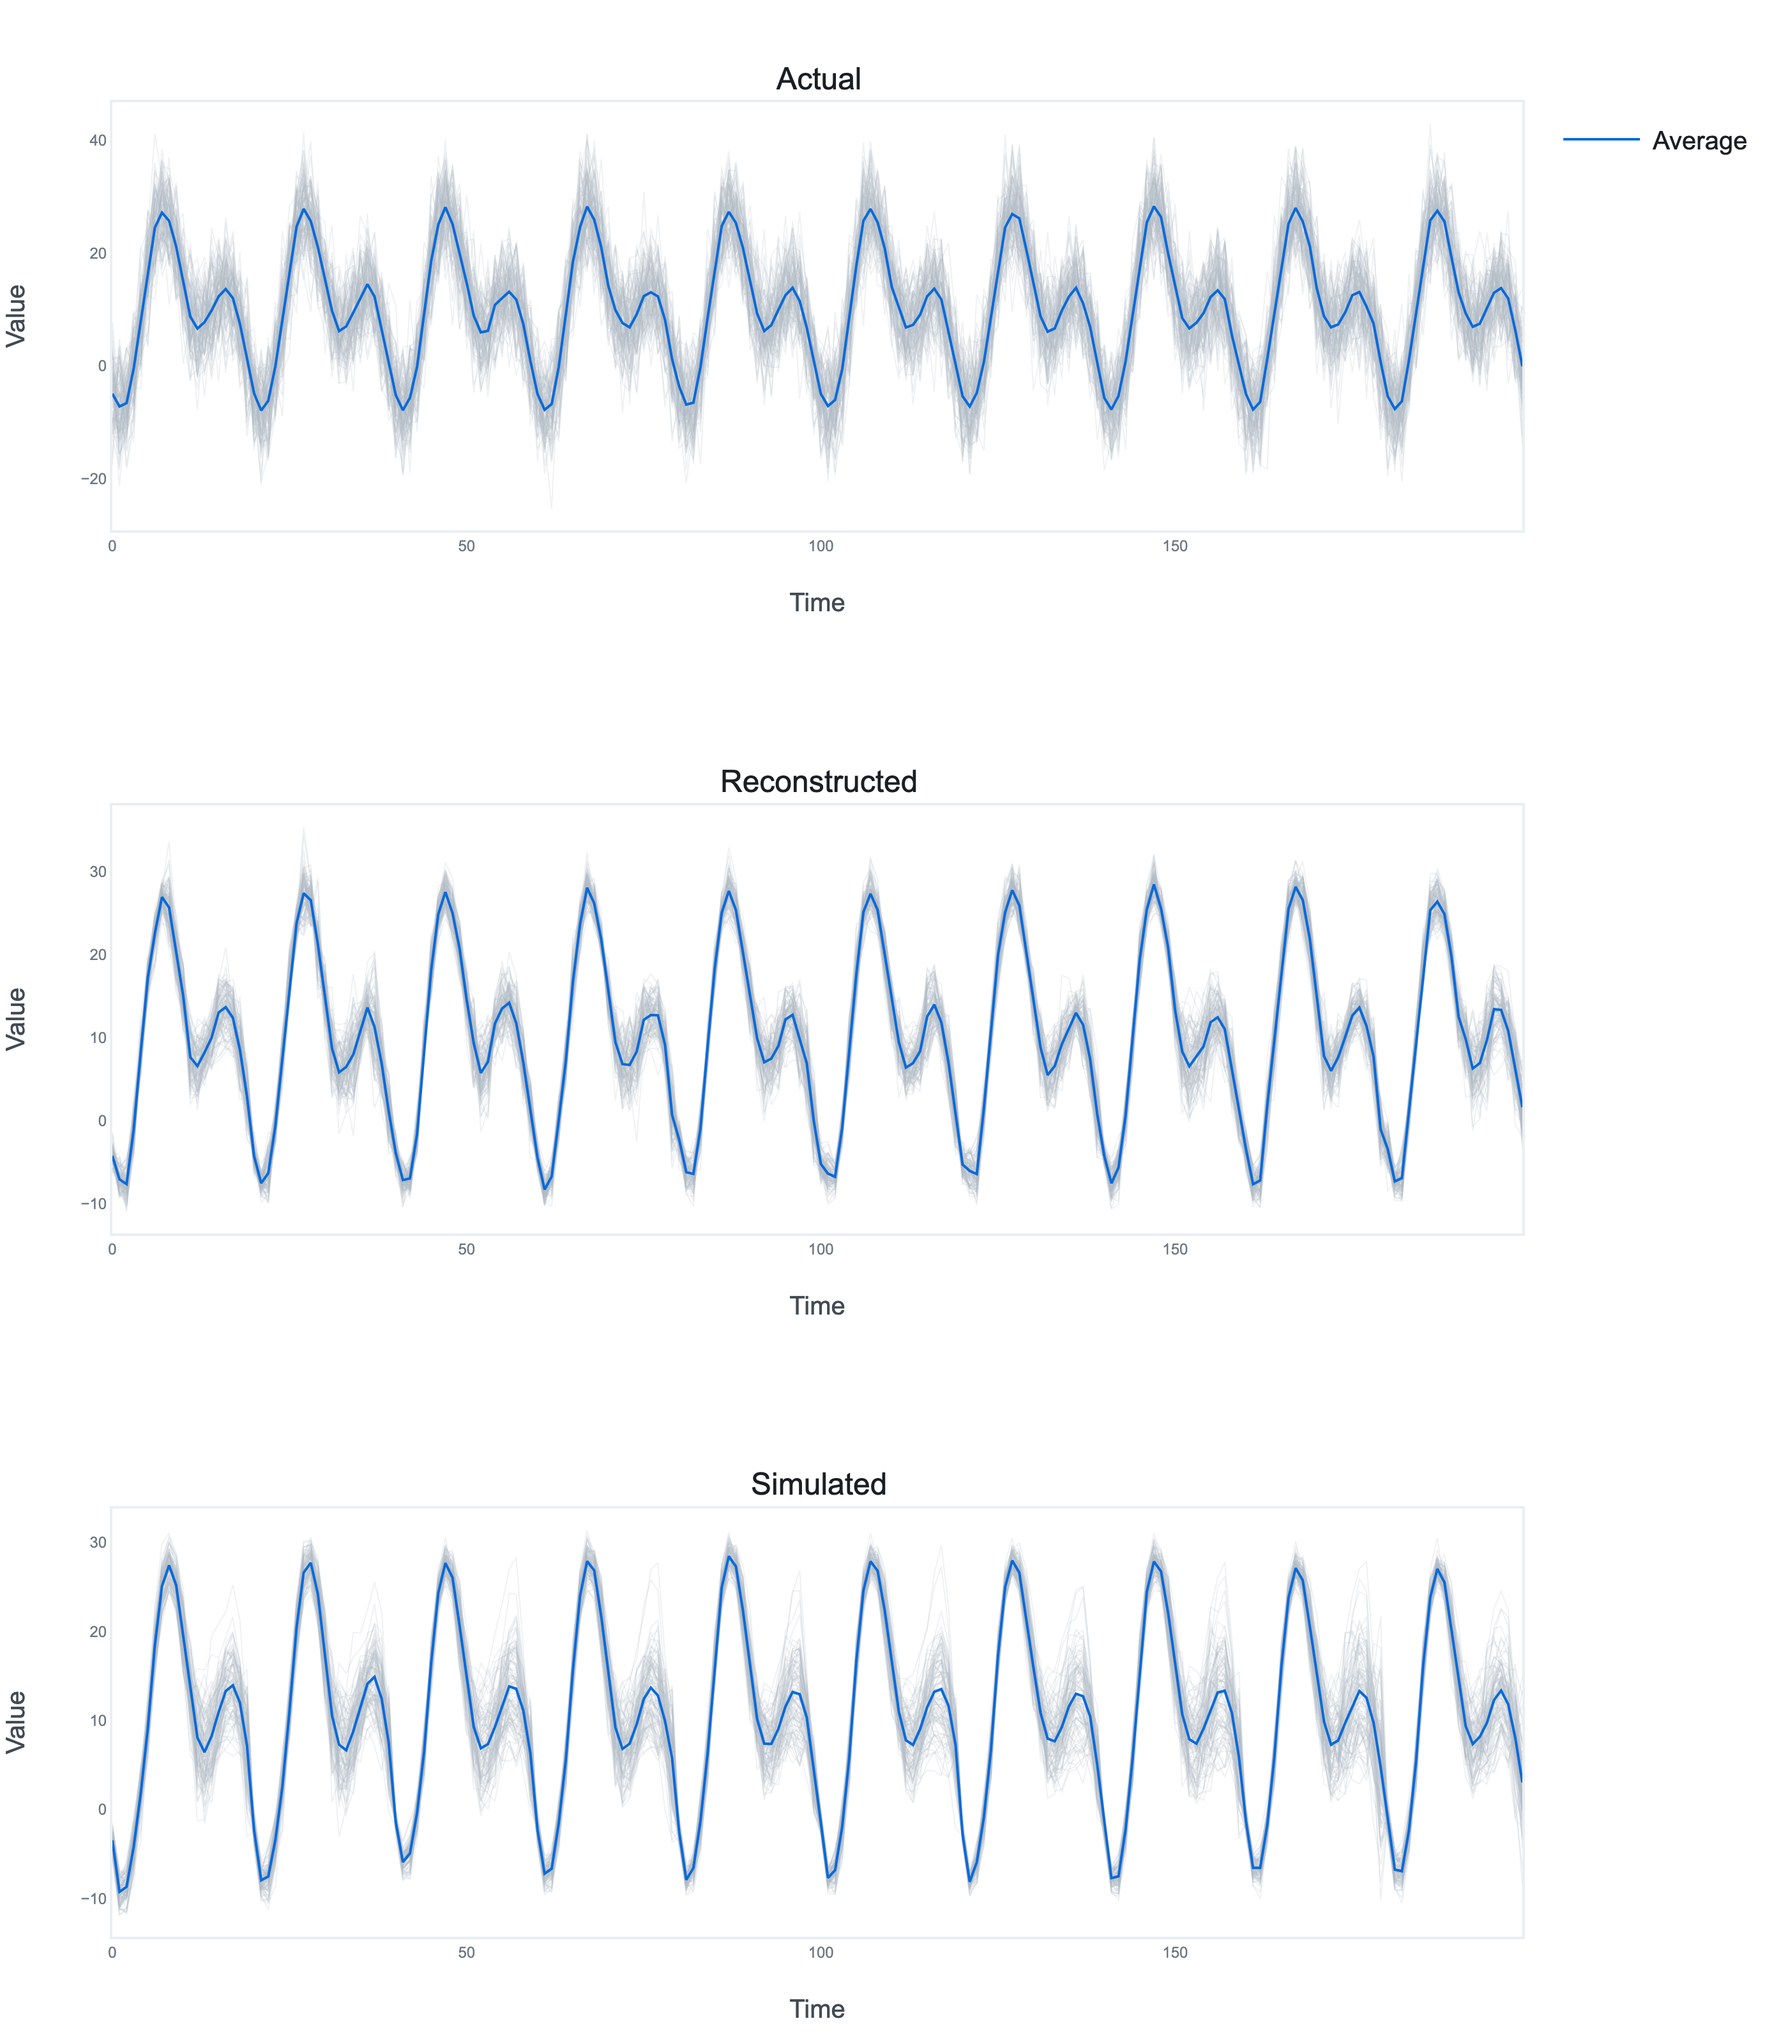
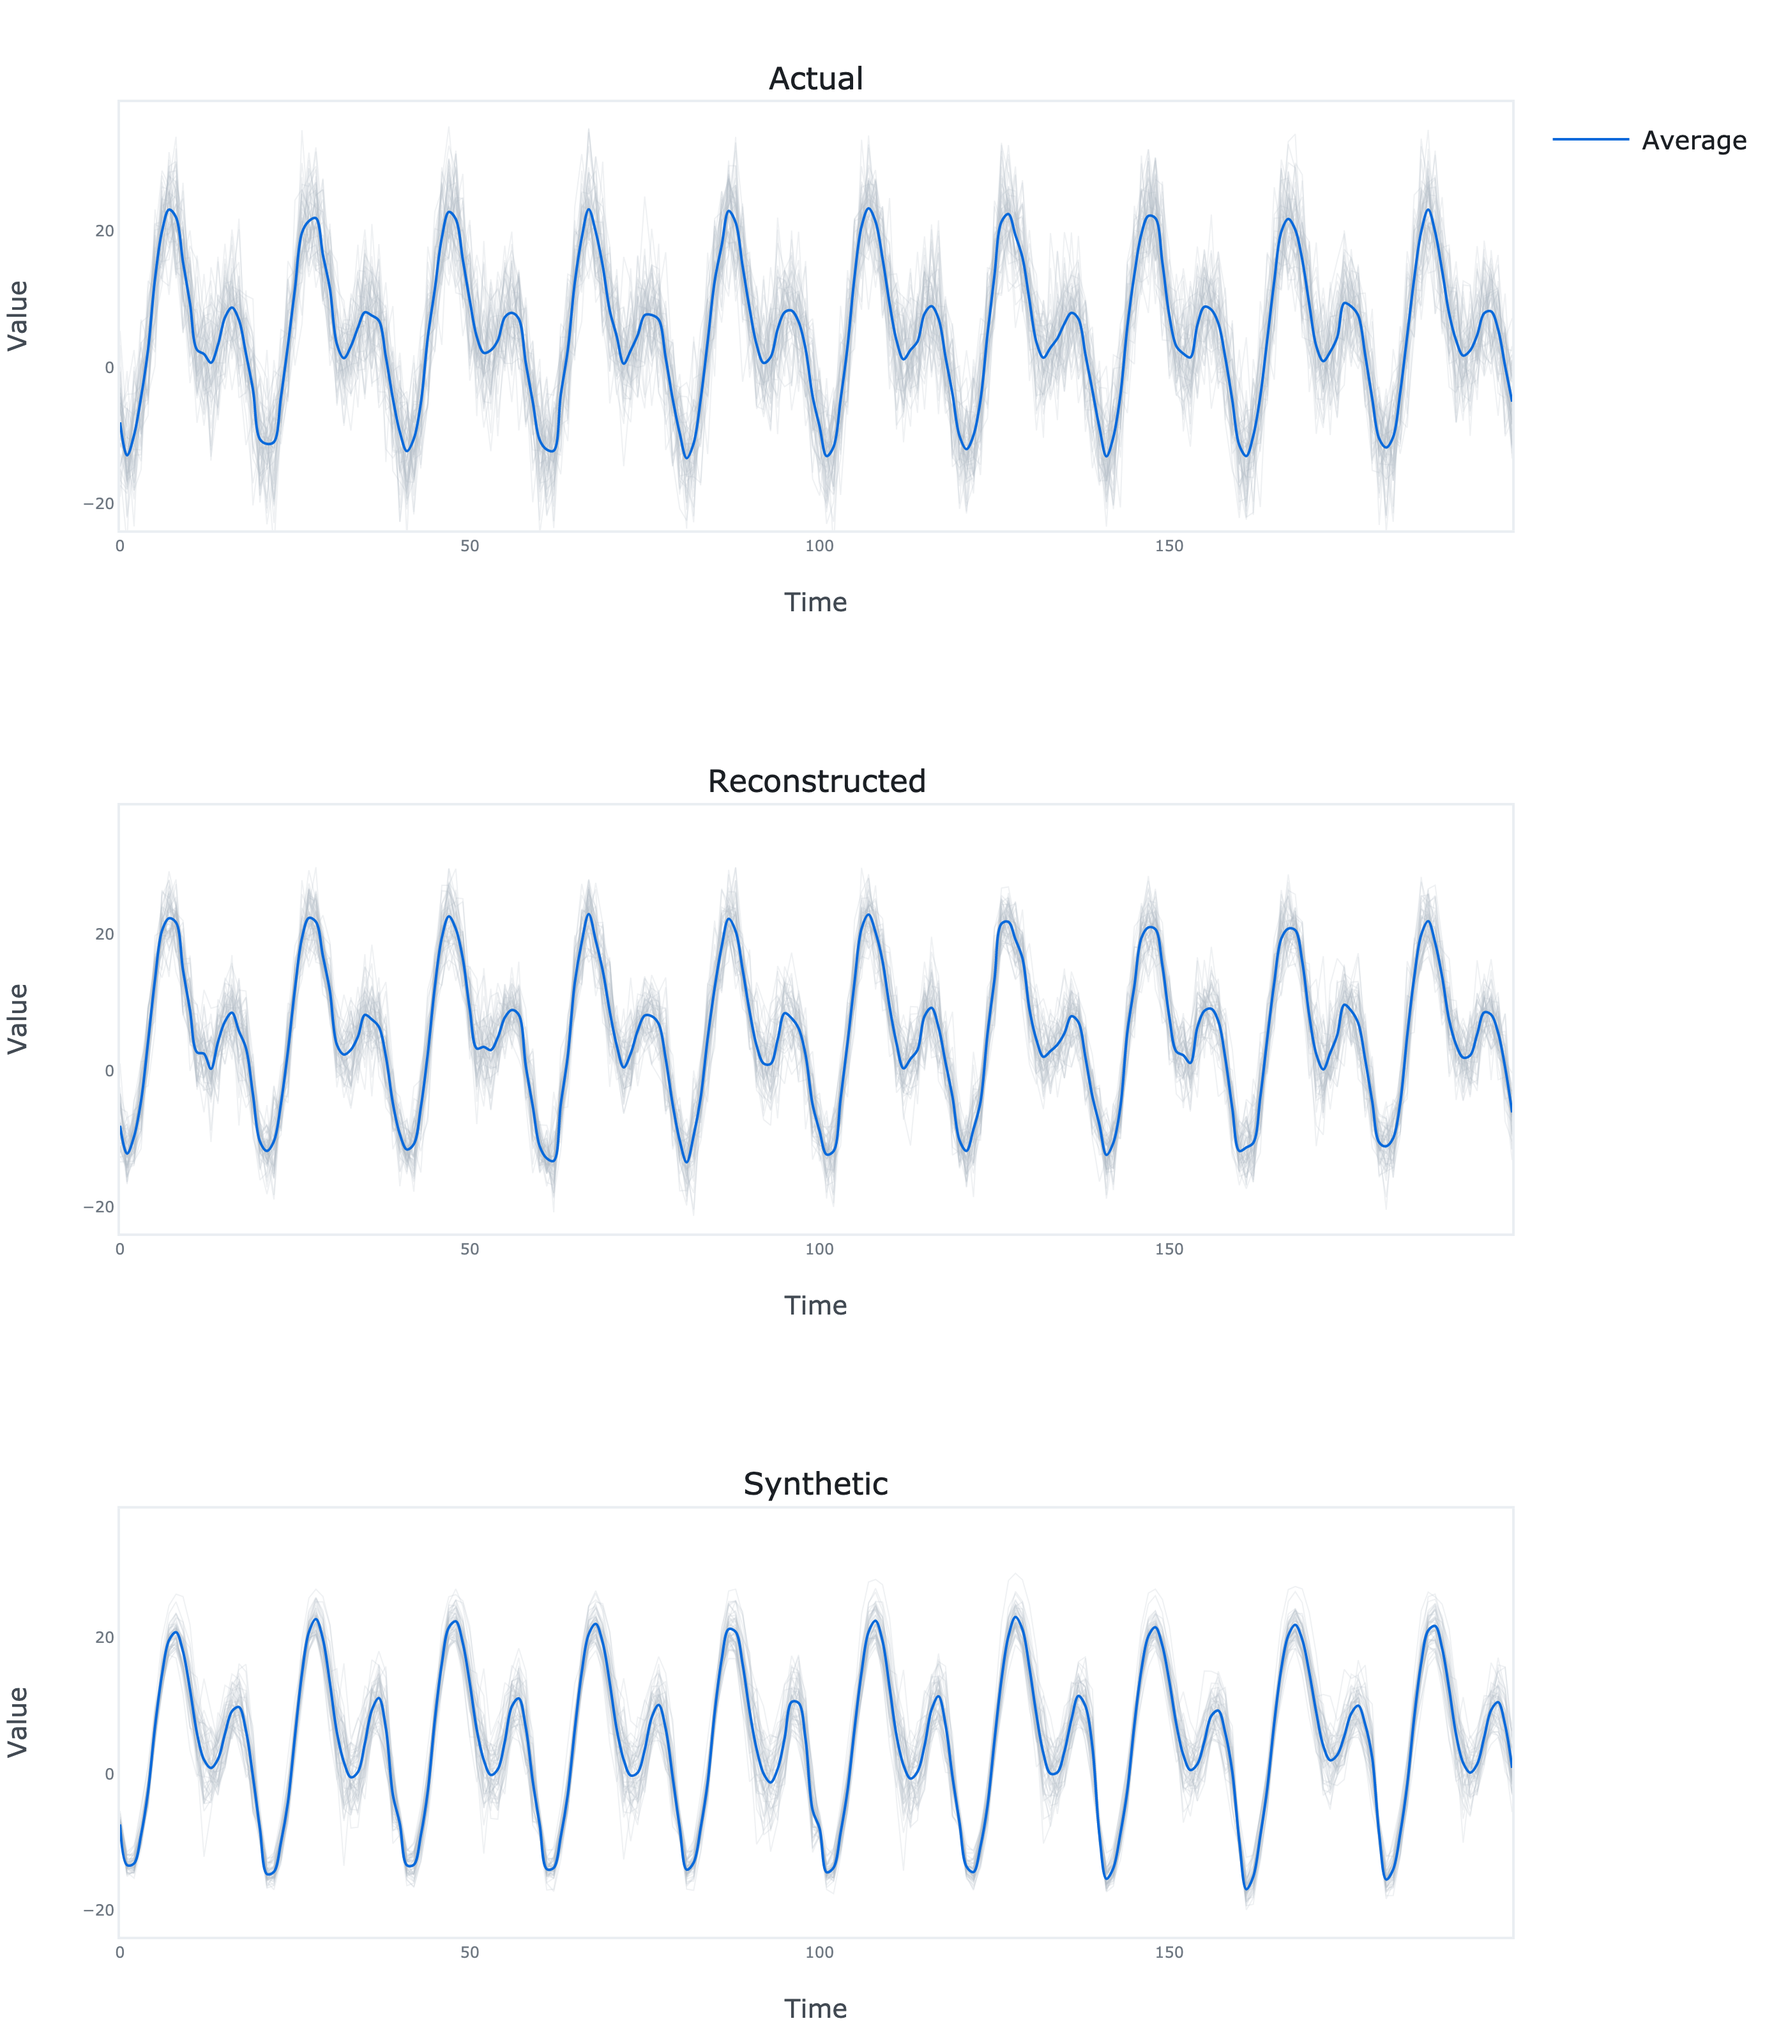
update visualization

diff --git a/time_gan_tensorflow/plots.py b/time_gan_tensorflow/plots.py
@@ -2,13 +2,13 @@ import numpy as np
 import plotly.graph_objects as go
 from plotly.subplots import make_subplots
 
-def plot(actual, reconstructed, simulated):
+def plot(actual, reconstructed, synthetic):
     '''
-    Plot the actual, reconstructed and simulated time series.
+    Plot the actual, reconstructed and synthetic time series.
     '''
     
     fig = make_subplots(
-        subplot_titles=['Actual', 'Reconstructed', 'Simulated'],
+        subplot_titles=['Actual', 'Reconstructed', 'Synthetic'],
         vertical_spacing=0.15,
         rows=3,
         cols=1
@@ -19,14 +19,12 @@ def plot(actual, reconstructed, simulated):
         paper_bgcolor='white',
         margin=dict(t=40, b=10, l=10, r=10),
         font=dict(
-            family='Arial',
             color='#1b1f24',
             size=8,
         ),
         legend=dict(
             traceorder='normal',
             font=dict(
-                family='Arial',
                 color='#1b1f24',
                 size=10,
             ),
@@ -35,7 +33,6 @@ def plot(actual, reconstructed, simulated):
     
     fig.update_annotations(
         font=dict(
-            family='Arial',
             color='#1b1f24',
             size=12,
         )
@@ -66,6 +63,7 @@ def plot(actual, reconstructed, simulated):
             line=dict(
                 color='#0969da',
                 width=1,
+                shape='spline',
             )
         ),
         row=1,
@@ -96,17 +94,18 @@ def plot(actual, reconstructed, simulated):
             line=dict(
                 color='#0969da',
                 width=1,
+                shape='spline',
             )
         ),
         row=2,
         col=1
     )
     
-    # plot the simulated time series
-    for i in range(simulated.shape[1]):
+    # plot the synthetic time series
+    for i in range(synthetic.shape[1]):
         fig.add_trace(
             go.Scatter(
-                y=simulated[:, i],
+                y=synthetic[:, i],
                 showlegend=False,
                 mode='lines',
                 line=dict(
@@ -120,12 +119,13 @@ def plot(actual, reconstructed, simulated):
         
     fig.add_trace(
         go.Scatter(
-            y=np.mean(simulated, axis=1),
+            y=np.mean(synthetic, axis=1),
             showlegend=False,
             mode='lines',
             line=dict(
                 color='#0969da',
                 width=1,
+                shape='spline',
             )
         ),
         row=3,
@@ -137,7 +137,6 @@ def plot(actual, reconstructed, simulated):
             title='Time',
             color='#424a53',
             tickfont=dict(
-                family='Arial',
                 color='#6e7781',
                 size=6,
             ),
@@ -149,10 +148,10 @@ def plot(actual, reconstructed, simulated):
         )
         
         fig.update_yaxes(
+            range=[0.9 * np.min(actual), 1.1 * np.max(actual)],
             title='Value',
             color='#424a53',
             tickfont=dict(
-                family='Arial',
                 color='#6e7781',
                 size=6,
             ),

diff --git a/time_gan_tensorflow/model.py b/time_gan_tensorflow/model.py
@@ -16,7 +16,7 @@ class TimeGAN():
                  learning_rate,
                  batch_size):
         '''
-        Implementation of time series generation model introduced in Yoon, J., Jarrett, D. and Van der Schaar, M., 2019.
+        Implementation of synthetic time series generation model introduced in Yoon, J., Jarrett, D. and Van der Schaar, M., 2019.
         Time-series generative adversarial networks. Advances in neural information processing systems, 32.
         '''
         
@@ -168,7 +168,7 @@ class TimeGAN():
    
         # transform the reconstructed time series back to the original scale
         x_hat = self.mu + self.sigma * x_hat
- 
+        
         return x_hat
     
     def simulate(self, samples):
@@ -178,7 +178,7 @@ class TimeGAN():
         
         # generate the synthetic sequences
         z = simulator(samples=samples // self.timesteps, timesteps=self.timesteps, features=self.features)
-    
+        
         # get the simulated sequences
         x_sim = self.autoencoder_model.get_layer('decoder')(self.generator_model(z))
     

diff --git a/example/example.py b/example/example.py
@@ -4,12 +4,12 @@ from time_gan_tensorflow.model import TimeGAN
 from time_gan_tensorflow.plots import plot
 
 # Generate the data
-N = 100     # Number of time series
+N = 50      # Number of time series
 L = 1000    # Length of each time series
 t = np.linspace(0, 1, L).reshape(-1, 1)
 c = np.cos(2 * np.pi * (50 * t - 0.5))
 s = np.sin(2 * np.pi * (100 * t - 0.5))
-x = 10 + 10 * c + 10 * s + 5 * np.random.normal(size=(L, N))
+x = 5 + 10 * c + 10 * s + 5 * np.random.normal(size=(L, N))
 
 # Split the data
 x_train, x_test = x[:int(0.8 * L)], x[int(0.8 * L):]
@@ -23,7 +23,7 @@ model = TimeGAN(
     lambda_param=0.1,
     eta_param=10,
     learning_rate=0.001,
-    batch_size=32
+    batch_size=16
 )
 
 model.fit(
@@ -38,5 +38,5 @@ x_hat = model.reconstruct(x=x_test)
 x_sim = model.simulate(samples=len(x_test))
 
 # Plot the actual, reconstructed and synthetic data
-fig = plot(actual=x_test, reconstructed=x_hat, simulated=x_sim)
+fig = plot(actual=x_test, reconstructed=x_hat, synthetic=x_sim)
 fig.write_image('results.png', scale=4, height=800, width=700)

diff --git a/README.md b/README.md
@@ -20,12 +20,12 @@ from time_gan_tensorflow.model import TimeGAN
 from time_gan_tensorflow.plots import plot
 
 # Generate the data
-N = 100     # Number of time series
+N = 50      # Number of time series
 L = 1000    # Length of each time series
 t = np.linspace(0, 1, L).reshape(-1, 1)
 c = np.cos(2 * np.pi * (50 * t - 0.5))
 s = np.sin(2 * np.pi * (100 * t - 0.5))
-x = 10 + 10 * c + 10 * s + 5 * np.random.normal(size=(L, N))
+x = 5 + 10 * c + 10 * s + 5 * np.random.normal(size=(L, N))
 
 # Split the data
 x_train, x_test = x[:int(0.8 * L)], x[int(0.8 * L):]
@@ -39,7 +39,7 @@ model = TimeGAN(
     lambda_param=0.1,
     eta_param=10,
     learning_rate=0.001,
-    batch_size=32
+    batch_size=16
 )
 
 model.fit(
@@ -54,7 +54,7 @@ x_hat = model.reconstruct(x=x_test)
 x_sim = model.simulate(samples=len(x_test))
 
 # Plot the actual, reconstructed and synthetic data
-fig = plot(actual=x_test, reconstructed=x_hat, simulated=x_sim)
+fig = plot(actual=x_test, reconstructed=x_hat, synthetic=x_sim)
 fig.write_image('results.png', scale=4, height=800, width=700)
 ```
 ![results](example/results.png)
